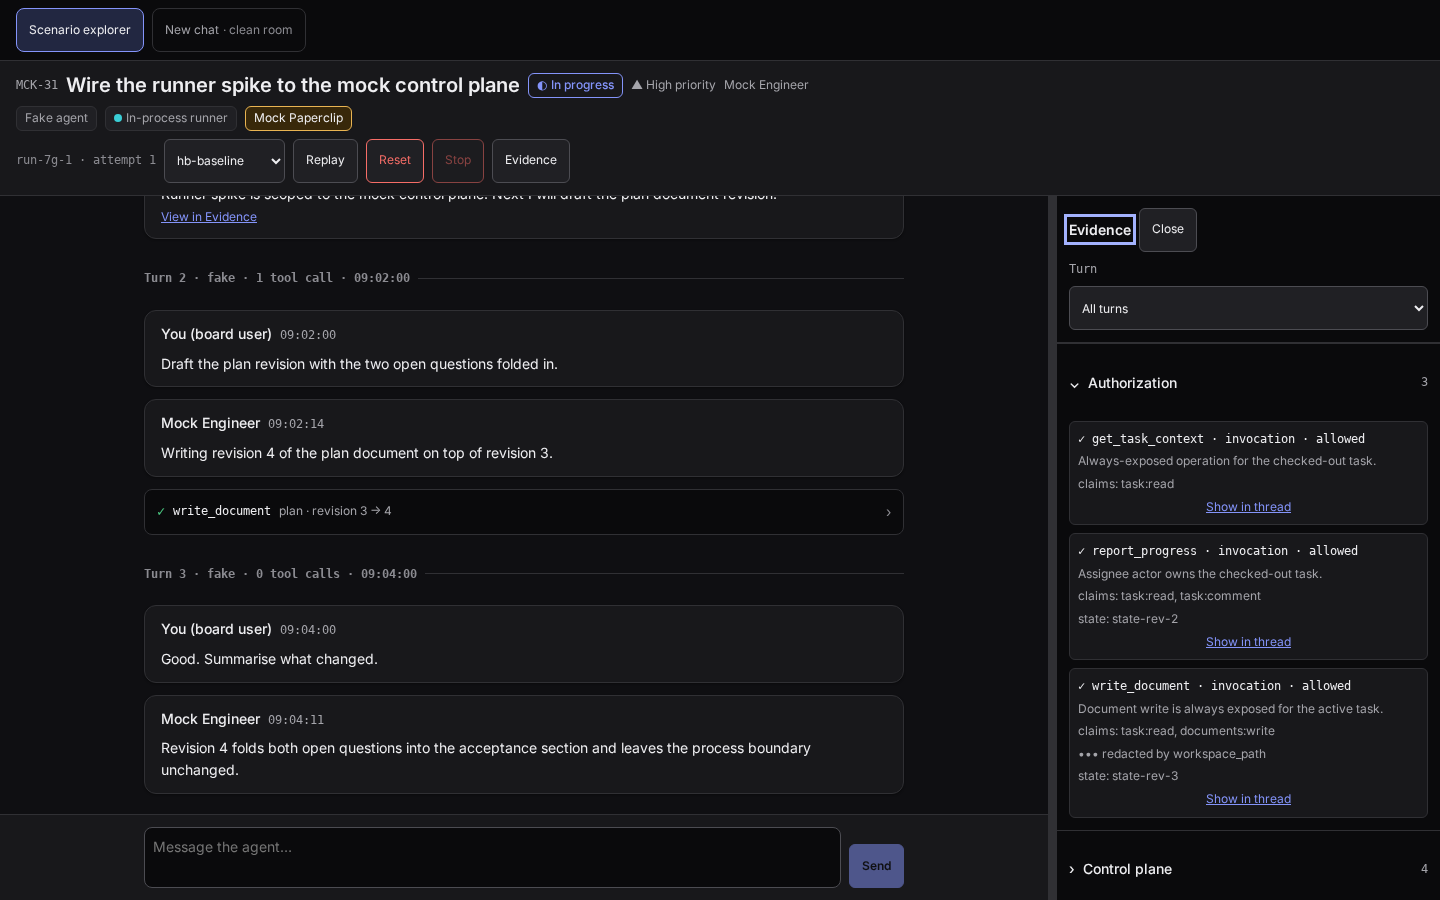
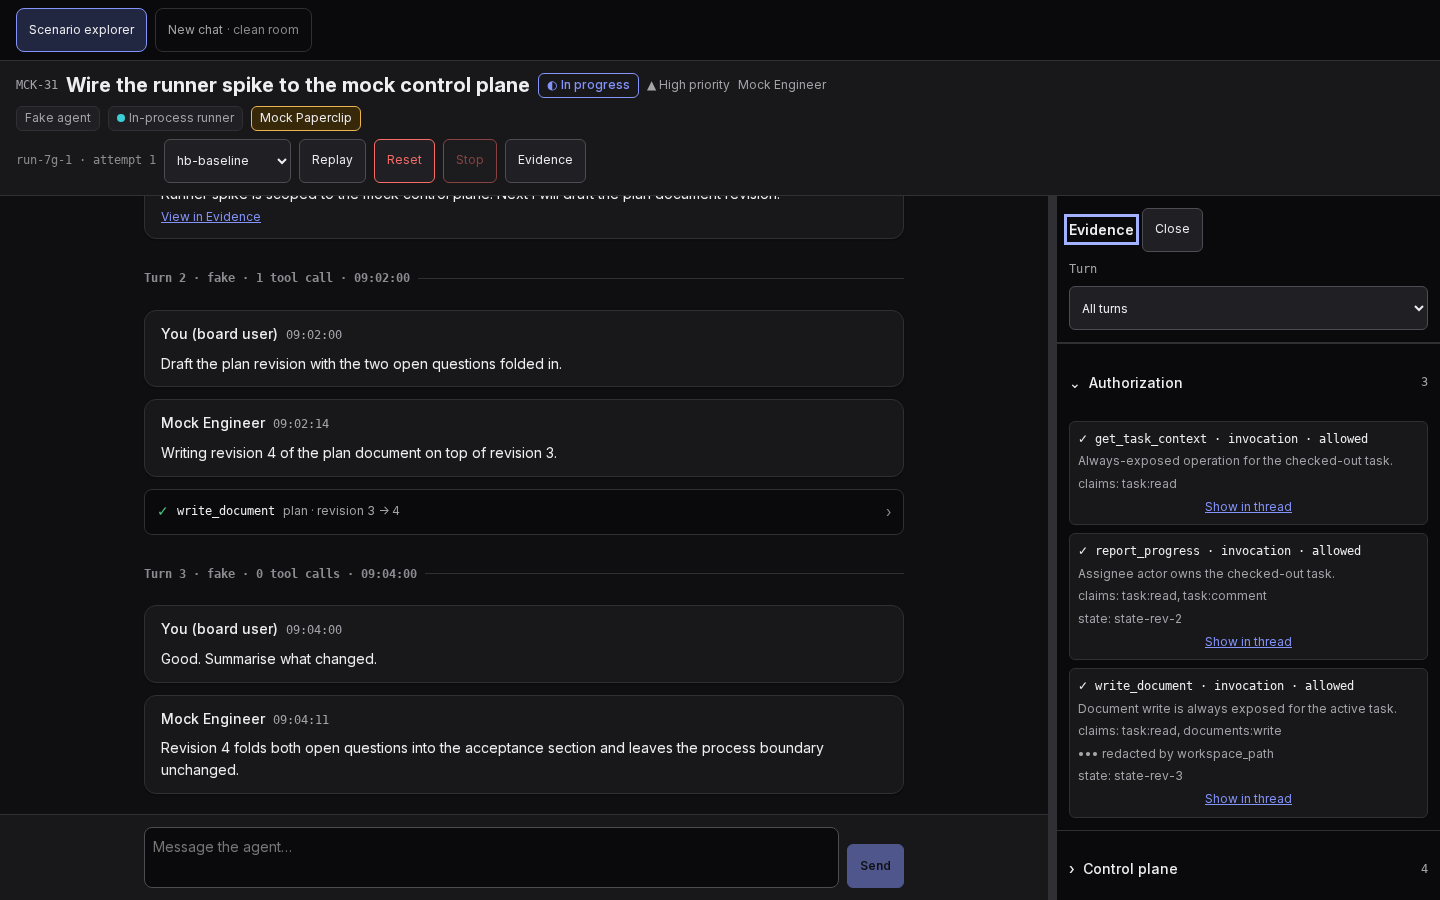
test(runner): accept self-hosted Phase 7 font evidence

diff --git a/packages/paperclip-runner/knowledge/evidence/phase-07/ui/index.md b/packages/paperclip-runner/knowledge/evidence/phase-07/ui/index.md
@@ -33,6 +33,9 @@ Deterministic `fake` mode; no provider, runner, or credential is involved.
 - Chromium 151.0.7922.34 — pin the exact binary with `PAPERCLIP_CHROMIUM_BIN`
   (honoured by the agent-browser wrapper) alongside
   `PAPERCLIP_RUNNER_CHROMIUM_PATH`.
-- Sans stack resolves to Inter (probe: Inter 549px vs
-  DejaVu Sans 641px for the title string). The recorder
-  refuses to run when Inter does not resolve.
+- Bundled sans face: Paperclip Issue Thread Inter (weights 400/500/600/700,
+  probe 531px vs generic serif 499px).
+- Bundled mono face: Paperclip Issue Thread DejaVu Sans Mono (weights 400/700,
+  probe 658px). Status glyphs use the bundled
+  Paperclip Issue Thread Symbols subsets. The recorder refuses to run when any
+  Vite-managed face is missing or fails to load.
